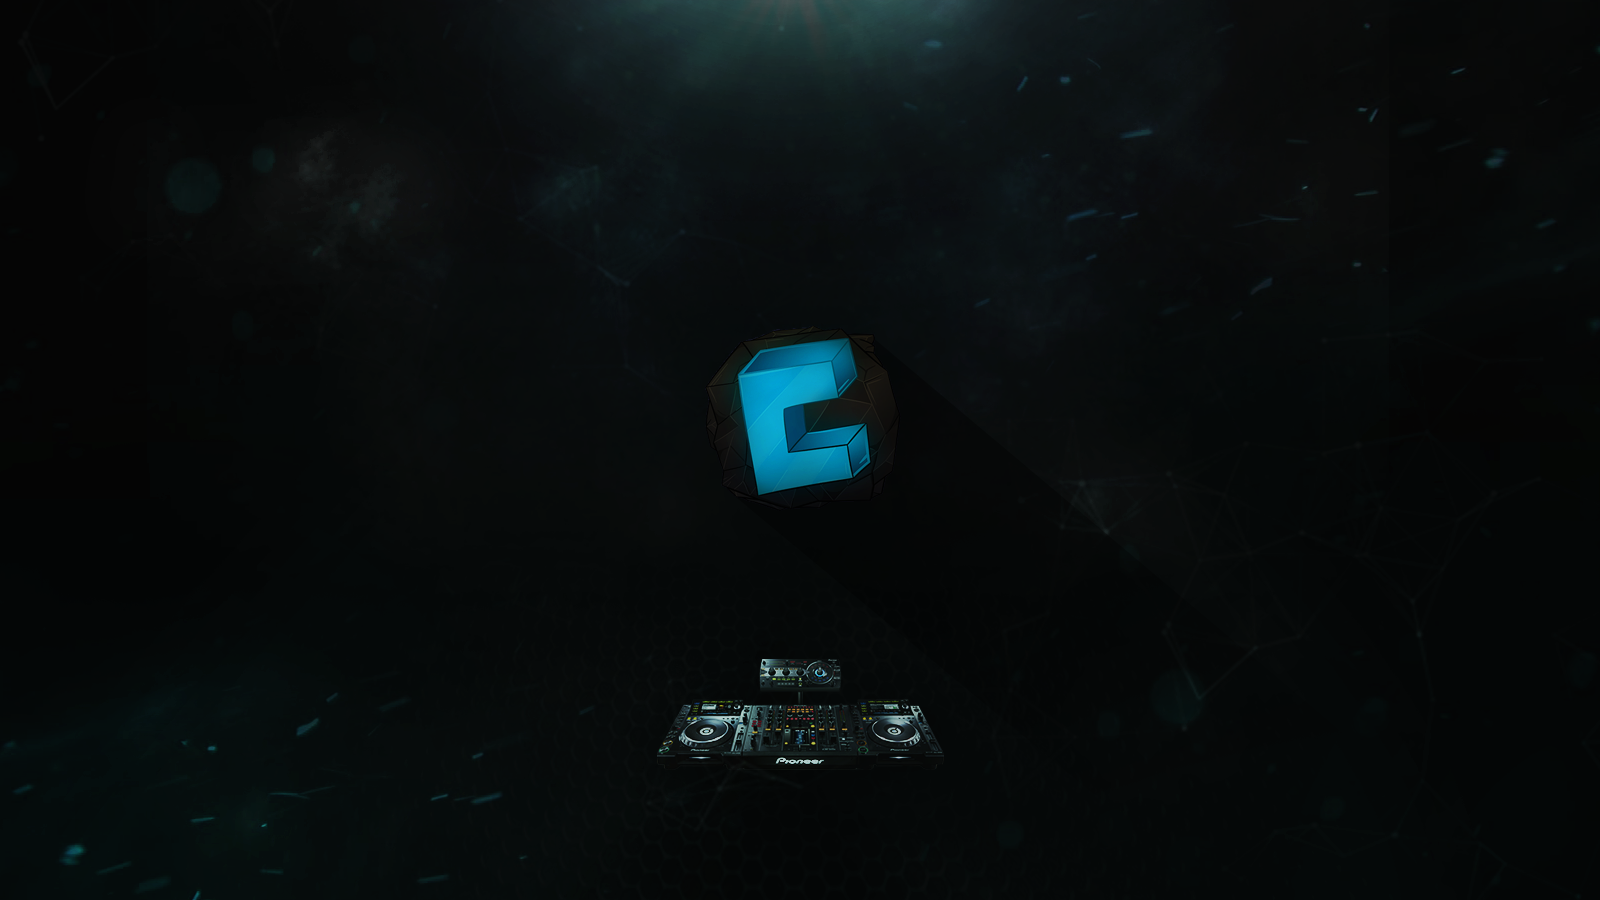
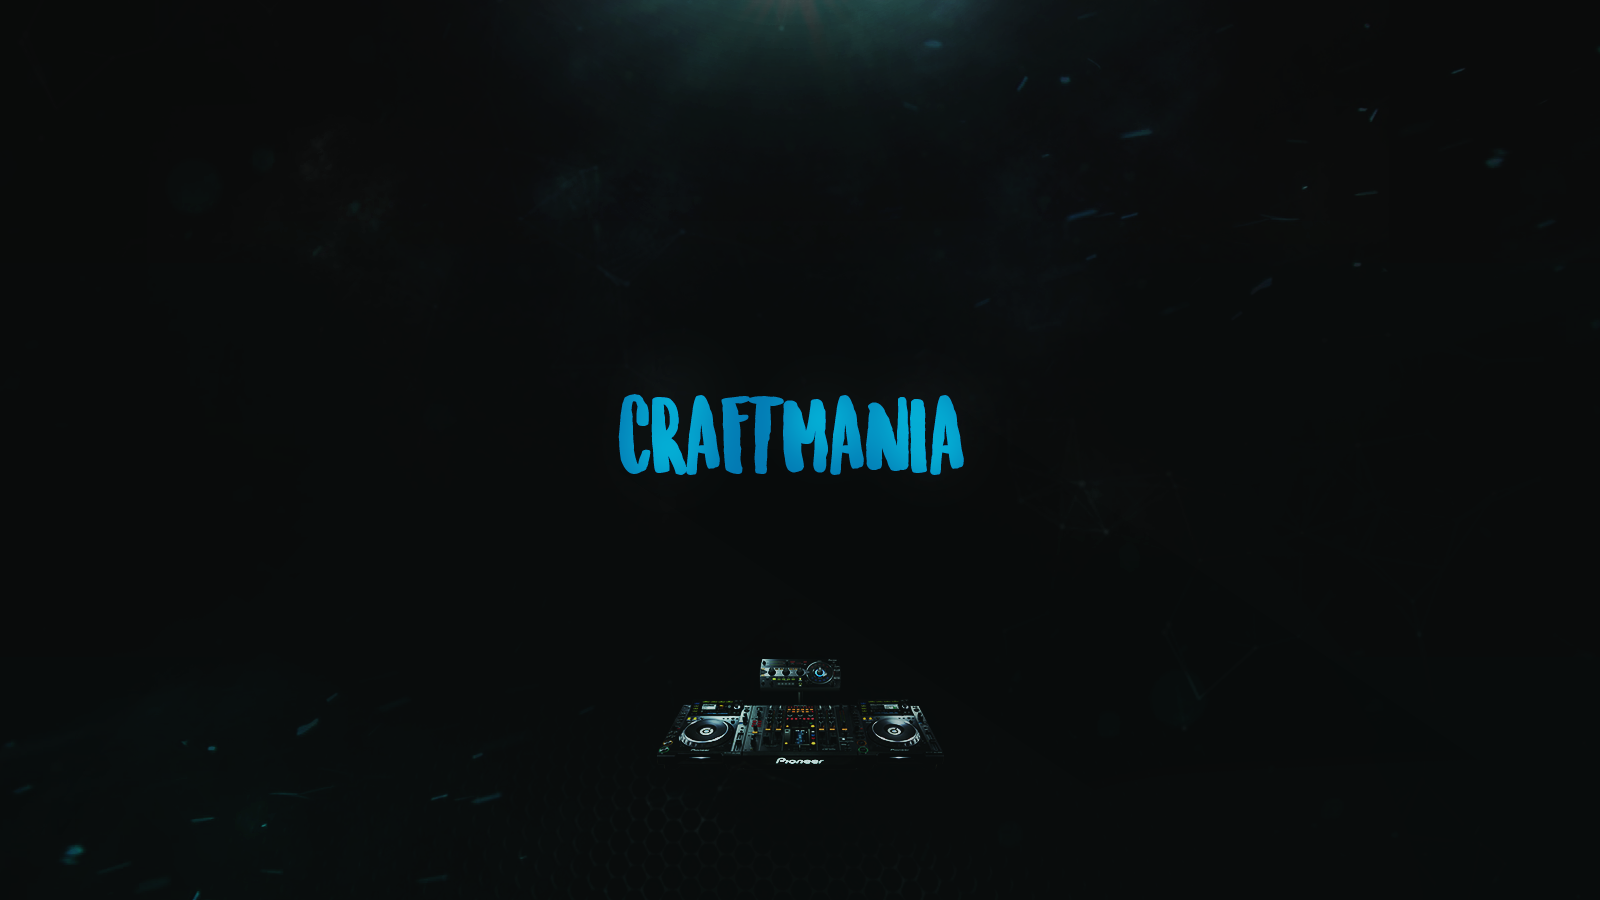
Upraven rámeček playbacku, no-dj obrázek, pozadí a tlačítka

Changed region(s): [[0.375, 0.3733, 0.625, 0.56]]

diff --git a/css/style.css b/css/style.css
@@ -133,8 +133,8 @@
   border-radius: 0 5px 5px 0;
 }
 
-#meh {
-  border-radius: 0 0 5px 0;
+#mem .bottom, #meh.crowd-response.disabled.active .bottom {
+  border-radius: 0 0 5px 0 !important;
 }
 
 #woot .bottom, #woot.crowd-response.disabled.active .bottom {
@@ -147,7 +147,6 @@
 
 #vote .crowd-response.disabled .bottom {
   background: rgba(0,0,0,0);
-  border-radius: 5px;
 }
 
 #vote .crowd-response.selected {
@@ -217,8 +216,23 @@
   background: rgba(0,0,0,0);
 }
 
+#user-rollover .info .level .label {
+  color: #fff;
+}
+
 /* Chat */
 
 #chat-messages, #chat-header {
   border-bottom: 0px;
+}
+
+/* Player */
+#no-dj .avatar {
+  position: absolute !important;
+  top: 25px !important;
+  left: 185px !important;
+  width: 125px !important;
+  height: 125px !important;
+  background: url(https://craftmaniacz.github.io/PlugStyle-v2/images/logo.png) no-repeat !important;
+  background-size: contain !important;
 }
